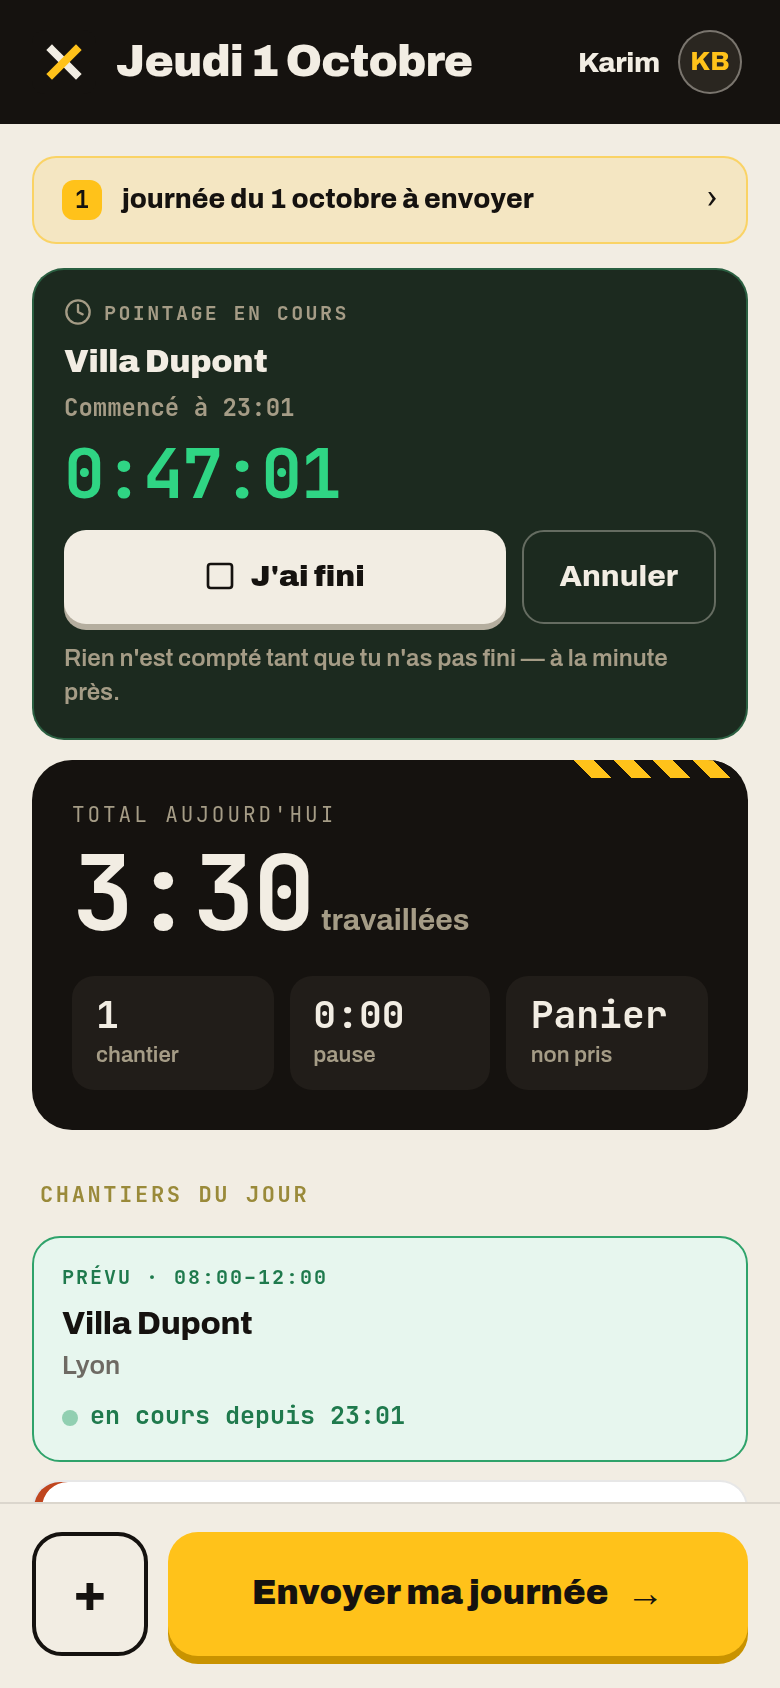
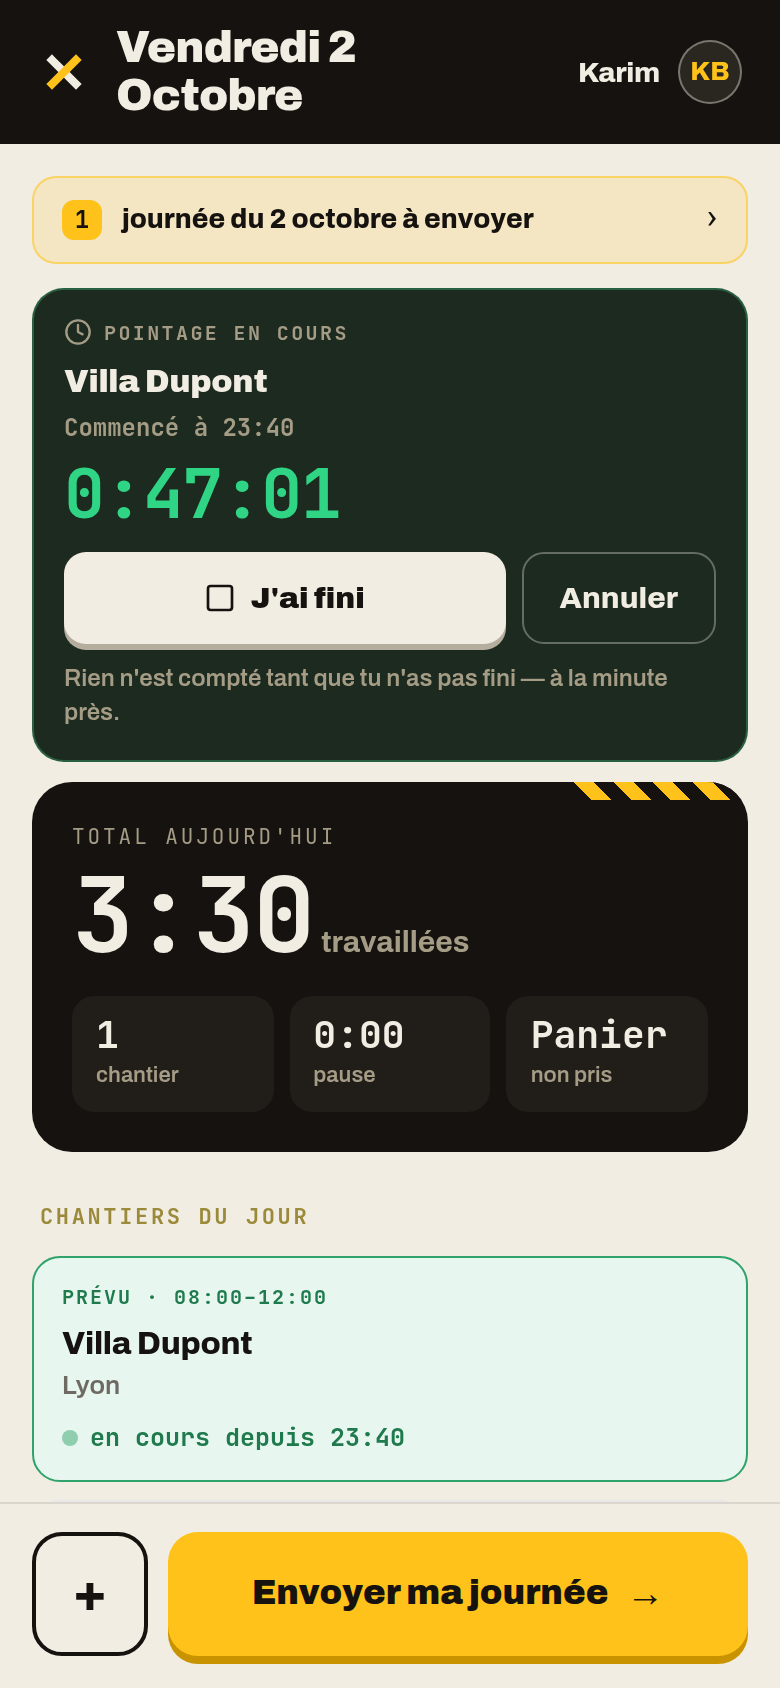
Lot 9 (salarié, revue) : chrono sans carte, nuit à cheval de nouveau possible
- « Je commence sur un autre chantier » : journée vide, chantier non prévu ou
  entreprise sans planning → choix du chantier (« Autre » compris) et le
  chrono démarre, SANS écrire d'heures à la main (plus de « + » puis
  « Je commence » qui faisait deux lignes). Même chemin que la carte
  (startOnCard : info endroit CNIL, en ligne, mois ouvert, un seul chrono),
  planning du jour rattaché s'il existe. Aide de l'Assistant complétée.
- Nuit à cheval : finish_active_session (migration non appliquée, toujours
  additive) écrit la ligne de nuit quand le chrono date d'un jour précédent
  et que la fin donnée est avant le début (18:00 → 00:30), comme
  stop_active_session le faisait ; annulation silencieuse gardée pour une
  fin ≤ début le même jour, et pour fin = début. 3 cas PGlite de plus.
- Écran (pointage resté ouvert) et Assistant (terminer_pointage) : fin avant
  le début acceptée sur un chrono de la veille, annoncée « le lendemain »
  avant d'écrire ; « Annuler » de l'Assistant retrouve la ligne sur le jour
  du chrono. Test navigateur : 59 vérifications (13 de plus).

Claude-Session: https://claude.ai/code/session_01UjXHEzdjb9t6bteo8SrVhu

Changed region(s): [[0.0, 0.0, 1.0, 0.8934], [0.8923, 0.3081, 0.9231, 0.3389]]

diff --git a/components/live-timer.tsx b/components/live-timer.tsx
@@ -29,7 +29,7 @@ import { finishLiveSession, cancelLiveSession, announceLiveChange, type OwnLiveS
 import { parisHHmm } from '@/lib/utils';
 import { TimeCylinder } from '@/components/time-cylinder';
 import { Square, Clock, AlertTriangle, Loader2, Trash2 } from 'lucide-react';
-import { format, parseISO } from 'date-fns';
+import { addDays, format, parseISO } from 'date-fns';
 import { fr } from 'date-fns/locale';
 import { toast } from 'sonner';
 import type { Worksite } from '@/lib/types';
@@ -124,6 +124,10 @@ export default function LiveTimer({ userId, session, today, worksites, positionA
   // Fermé d'ici : on le cache tout de suite, et la journée relit (LIVE_CHANGED).
   const done = (startedAt: string) => { setClosed(startedAt); setConfirmCancel(false); announceLiveChange(); };
 
+  // Ouvert un jour PRÉCÉDENT : une fin avant le début est une fin le lendemain
+  // (nuit à cheval, même règle que finish_active_session). Fin = début : rien.
+  const finLendemain = (end: string) => !!session && session.work_date < today && end < parisHHmm(session.started_at);
+
   /**
    * « J'ai fini » — À N'IMPORTE QUEL MOMENT (lot 9).
    *
@@ -140,7 +144,9 @@ export default function LiveTimer({ userId, session, today, worksites, positionA
     if (!session) return;
     // Pointage oublié : une fin avant le début n'a rien à compter, et le serveur
     // l'annulerait sans un mot. On le dit AVANT, pour qu'il corrige l'heure.
-    if (endTime && endTime <= parisHHmm(session.started_at)) { setEndBeforeStart(true); return; }
+    // Sauf la NUIT À CHEVAL : chrono d'un jour précédent, fin avant le début =
+    // fin le lendemain (18:00 → 00:30), écrite comme une ligne de nuit.
+    if (endTime && endTime <= parisHHmm(session.started_at) && !finLendemain(endTime)) { setEndBeforeStart(true); return; }
     setEndBeforeStart(false);
     setBusy(true);
     try {
@@ -149,7 +155,8 @@ export default function LiveTimer({ userId, session, today, worksites, positionA
       const r = await finishLiveSession({ userId, startedAt: session.started_at, positionActive: !!positionActive, endTime });
       if (r.kind === 'saved') {
         done(session.started_at);
-        toast.success(`Pointage fermé — ${r.start_time.slice(0, 5)} à ${r.end_time.slice(0, 5)}`);
+        const nuit = r.end_time.slice(0, 5) < r.start_time.slice(0, 5) ? ' (le lendemain)' : '';
+        toast.success(`Pointage fermé — ${r.start_time.slice(0, 5)} à ${r.end_time.slice(0, 5)}${nuit}`);
       } else if (r.kind === 'cancelled') {
         done(session.started_at);
         toast.message(endTime ? 'Pointage annulé — rien n’a été compté' : 'Pointage annulé (moins d’une minute)');
@@ -251,6 +258,14 @@ export default function LiveTimer({ userId, session, today, worksites, positionA
           <div className="bt-lt-ask">
             <div className="bt-lt-asklab">Tu as fini à quelle heure&nbsp;?</div>
             <TimeCylinder value={endGuess} onChange={(v) => { setEndGuess(v); setEndBeforeStart(false); }} />
+            {/* Fin avant le début sur un chrono de la veille : la nuit compte,
+                et on le DIT avant d'écrire (18:00 → 06:30 = douze heures et demie). */}
+            {finLendemain(endGuess) && (
+              <div className="bt-lt-note" data-testid="fin-lendemain">
+                Fin <b>le lendemain</b> ({format(addDays(parseISO(session.work_date), 1), 'EEEE d MMMM', { locale: fr })}) à {endGuess} :
+                la nuit est comptée sur la journée du début.
+              </div>
+            )}
           </div>
           <div className="bt-lt-row">
             <button type="button" className="bt-lt-btn stop" disabled={busy} onClick={() => stop(endGuess)}>
@@ -260,13 +275,13 @@ export default function LiveTimer({ userId, session, today, worksites, positionA
               Annuler
             </button>
           </div>
-          {/* Fin avant le début : rien à compter. On le dit plutôt que de
-              laisser le serveur annuler sans un mot. Une nuit à cheval sur
-              deux jours se note à la main (« + »). */}
+          {/* Fin = début (ou avant, le même jour) : rien à compter. On le dit
+              plutôt que de laisser le serveur annuler sans un mot. */}
           {endBeforeStart && (
             <div className="bt-lt-note warn">
-              Indique une heure <b>après {startedHHmm}</b>. Nuit à cheval sur deux jours&nbsp;? Annule ce
-              pointage et note tes heures avec le bouton +.
+              {session.work_date < today
+                ? <>Fin et début à la même heure ({startedHHmm})&nbsp;: rien à compter. Indique l&apos;heure où tu as fini.</>
+                : <>Indique une heure <b>après {startedHHmm}</b>.</>}
             </div>
           )}
         </>

diff --git a/components/poseur-day.tsx b/components/poseur-day.tsx
@@ -482,6 +482,10 @@ export default function PoseurDay({ date: dateProp, topBanner, onAssistant }: { 
   // le départ mis en attente derrière l'information sur l'endroit (CNIL).
   const [starting, setStarting] = useState<string | null>(null);
   const [geoAsk, setGeoAsk] = useState<{ worksiteId: string; planningId: string | null; key: string } | null>(null);
+  // « Je commence sur un autre chantier » : le choix du chantier quand aucune
+  // carte ne convient (journée vide, chantier non prévu, pas de planning).
+  const [pickStart, setPickStart] = useState(false);
+  const [pickQuery, setPickQuery] = useState('');
   // Suppression d'une intervention : jamais sans confirmation (gant de chantier,
   // écran mouillé — un appui involontaire ne doit pas effacer une demi-journée).
   const [confirmDel, setConfirmDel] = useState<
@@ -1433,6 +1437,10 @@ export default function PoseurDay({ date: dateProp, topBanner, onAssistant }: { 
     ? sortedWorksites.filter((w) => w.client_name.toLowerCase().includes(cq) || (w.city || '').toLowerCase().includes(cq))
     : sortedWorksites;
   const autreId = worksites.find((w) => w.client_name === OTHER_NAME)?.id || '';
+  const pq = pickQuery.trim().toLowerCase();
+  const pickWorksites = pq
+    ? sortedWorksites.filter((w) => w.client_name.toLowerCase().includes(pq) || (w.city || '').toLowerCase().includes(pq))
+    : sortedWorksites;
 
   /**
    * « Autre » nommé : on en fait un vrai chantier.
@@ -1903,6 +1911,19 @@ export default function PoseurDay({ date: dateProp, topBanner, onAssistant }: { 
           </div>
         )}
 
+        {/* Aucune carte pour ce chantier (pas de planning, chantier non prévu,
+            journée vide) : le chrono se lance quand même, SANS écrire d'heures
+            à la main (« + » puis « Je commence » ferait deux lignes pour le
+            même travail). Même chemin et mêmes garde-fous que sur une carte. */}
+        {canStartLive && (
+          <div style={{ textAlign: 'center' }}>
+            <button type="button" className="bt-ghostbtn" data-testid="start-other" disabled={starting !== null}
+              onClick={() => { setPickQuery(''); setPickStart(true); }}>
+              {starting?.startsWith('o:') ? <Loader2 className="h-4 w-4 animate-spin" /> : <Play className="h-4 w-4" fill="currentColor" />} Je commence sur un autre chantier
+            </button>
+          </div>
+        )}
+
         {/* Dupliquer cette journée */}
         {!isEmpty && !monthLocked && (
           <div style={{ textAlign: 'center' }}>
@@ -2242,6 +2263,36 @@ export default function PoseurDay({ date: dateProp, topBanner, onAssistant }: { 
               Oui, retirer
             </Button>
           </div>
+        </DialogContent>
+      </Dialog>
+
+      {/* Le chantier du chrono, quand aucune carte ne convient. Le planning du
+          jour sur ce chantier est rattaché s'il existe (même règle que les
+          cartes), sinon aucun : la carte verte « à part » le montrera. */}
+      <Dialog open={pickStart} onOpenChange={setPickStart}>
+        <DialogContent className="max-w-sm" data-testid="start-other-sheet">
+          <DialogHeader>
+            <DialogTitle className="flex items-center gap-2"><Play className="h-5 w-5" /> Sur quel chantier&nbsp;?</DialogTitle>
+          </DialogHeader>
+          <input className="bt-site-search" placeholder="Rechercher un chantier…" value={pickQuery} onChange={(e) => setPickQuery(e.target.value)} />
+          <div style={{ maxHeight: '52vh', overflowY: 'auto' }}>
+            {pickWorksites.length === 0 && <div className="bt-site-empty">Aucun chantier trouvé</div>}
+            {pickWorksites.map((ws) => {
+              const isOther = ws.client_name === OTHER_NAME;
+              const planningId = plannedTodo.find((p) => p.worksite_id === ws.id)?.id
+                ?? planning.find((p) => p.worksite_id === ws.id && !p.absence_type)?.id ?? null;
+              return (
+                <button key={ws.id} type="button" className={`bt-site${isOther ? ' other' : ''}`}
+                  onClick={() => { setPickStart(false); startOnCard(ws.id, planningId, `o:${ws.id}`); }}>
+                  <span style={{ flex: 1, minWidth: 0 }}>
+                    <span className="bt-site-name">{isOther ? 'Autre chantier' : ws.client_name}</span>
+                    <span className="bt-site-city">{isOther ? 'Travail non prévu, à préciser' : (ws.city || '')}</span>
+                  </span>
+                </button>
+              );
+            })}
+          </div>
+          <p className="text-xs text-muted-foreground">Le chrono démarre tout de suite&nbsp;; rien n&apos;est compté avant « J&apos;ai fini ».</p>
         </DialogContent>
       </Dialog>
 

diff --git a/lib/worker-actions.ts b/lib/worker-actions.ts
@@ -27,6 +27,8 @@ export interface WorkerActionResult {
 export type WorkerActionExecutor = (d: WorkerActionDraft, attachment?: File) => Promise<WorkerActionResult>;
 
 const today = () => new Date().toLocaleDateString('sv-SE', { timeZone: 'Europe/Paris' });
+/** Jour (Paris) d'un horodatage : le jour où le chrono a été ouvert. */
+const parisDayOf = (iso: string) => new Date(iso).toLocaleDateString('sv-SE', { timeZone: 'Europe/Paris' });
 const errText = (e: unknown, fallback: string) => (e as { message?: string } | null)?.message || fallback;
 
 const SUMMARY: Record<WorkerActionDraft['type'], string> = {
@@ -98,8 +100,12 @@ export function makeWorkerExecutor(user: { id: string; company_id: string }): Wo
           // Lot 9 : même geste que « J'ai fini » (lib/live-session.ts) — à tout
           // moment, à la minute ; moins d'une minute = annulé, sans erreur.
           // Une fin donnée AVANT le début serait annulée sans un mot par le
-          // serveur : on le dit d'abord, pour que l'heure soit corrigée.
-          if (d.fin && d.fin <= parisHHmm(d.depuis)) {
+          // serveur : on le dit d'abord, pour que l'heure soit corrigée. Sauf
+          // la NUIT À CHEVAL : chrono ouvert un jour précédent, fin avant le
+          // début = fin le lendemain (même règle que finish_active_session).
+          const jourChrono = parisDayOf(d.depuis);
+          const lendemain = !!d.fin && d.fin < parisHHmm(d.depuis) && jourChrono < today();
+          if (d.fin && d.fin <= parisHHmm(d.depuis) && !lendemain) {
             return { ok: false, message: `Heure de fin avant le début (${parisHHmm(d.depuis)}) : indiquez une heure après.` };
           }
           const r = await finishLiveSession({ userId: user.id, startedAt: d.depuis, positionActive: await positionActive(), endTime: d.fin || undefined });
@@ -109,7 +115,7 @@ export function makeWorkerExecutor(user: { id: string; company_id: string }): Wo
           // Rien n'a été écrit : « Annuler » remet simplement le chrono en route.
           const relancer = async () => {
             const { error } = await supabase.from('active_sessions').insert({
-              user_id: user.id, company_id: user.company_id, worksite_id: d.worksite_id, planning_id: null, work_date: today(), started_at: d.depuis,
+              user_id: user.id, company_id: user.company_id, worksite_id: d.worksite_id, planning_id: null, work_date: jourChrono, started_at: d.depuis,
             });
             if (error) throw error;
             announceLiveChange();
@@ -120,11 +126,11 @@ export function makeWorkerExecutor(user: { id: string; company_id: string }): Wo
             break;
           }
           const row = r;
-          message = `Pointage fermé — ${row.start_time.slice(0, 5)} à ${row.end_time.slice(0, 5)}.`;
+          message = `Pointage fermé — ${row.start_time.slice(0, 5)} à ${row.end_time.slice(0, 5)}${row.end_time.slice(0, 5) < row.start_time.slice(0, 5) ? ' (le lendemain)' : ''}.`;
           // Annuler : on retire la ligne créée et le chrono repart de l'heure d'origine.
           if (d.worksite_id) {
             undo = async () => {
-              const { data } = await supabase.from('time_entries').select('id').eq('user_id', user.id).eq('work_date', today())
+              const { data } = await supabase.from('time_entries').select('id').eq('user_id', user.id).eq('work_date', jourChrono)
                 .eq('start_time', row.start_time).eq('end_time', row.end_time).eq('status', 'draft').order('created_at', { ascending: false }).limit(1);
               const id = (data as { id: string }[] | null)?.[0]?.id;
               if (!id) throw new Error('La ligne a déjà été envoyée : corrigez-la dans « Ma journée ».');

diff --git a/supabase/functions/_shared/worker-assistant-core.ts b/supabase/functions/_shared/worker-assistant-core.ts
@@ -421,7 +421,7 @@ export const WORKER_GUIDE: WorkerGuideEntry[] = [
     etapes: ['Menu (votre nom en haut à droite) → « Mes congés ».', '« Faire une demande » : type et dates.', '« Envoyer la demande » : le bureau répond.'], lien: 'conges' },
   // Lot 9 : plus de liste déroulante — on démarre depuis la carte du chantier.
   { mots: ['pointer', 'commencer', 'chrono', 'en direct', 'je commence'], titre: 'Pointer en direct',
-    etapes: ['« Ma journée » → la carte du chantier.', '« Je commence » sur la carte (elle passe au vert).', '« J’ai fini » en partant : l’heure exacte est notée.'], lien: 'journee' },
+    etapes: ['« Ma journée » → la carte du chantier (pas de carte : « Je commence sur un autre chantier »).', '« Je commence » sur la carte (elle passe au vert).', '« J’ai fini » en partant : l’heure exacte est notée.'], lien: 'journee' },
   { mots: ['envoyer journee', 'envoyer ma journee', 'valider journee', 'envoyer'], titre: 'Envoyer sa journée',
     etapes: ['« Ma journée ».', 'Vérifiez vos chantiers et horaires.', '« Envoyer ma journée → ».'], lien: 'journee' },
   { mots: ['ajouter heure', 'noter heure', 'saisir heure', 'ajouter chantier', 'oublie'], titre: 'Noter ses heures à la main',
